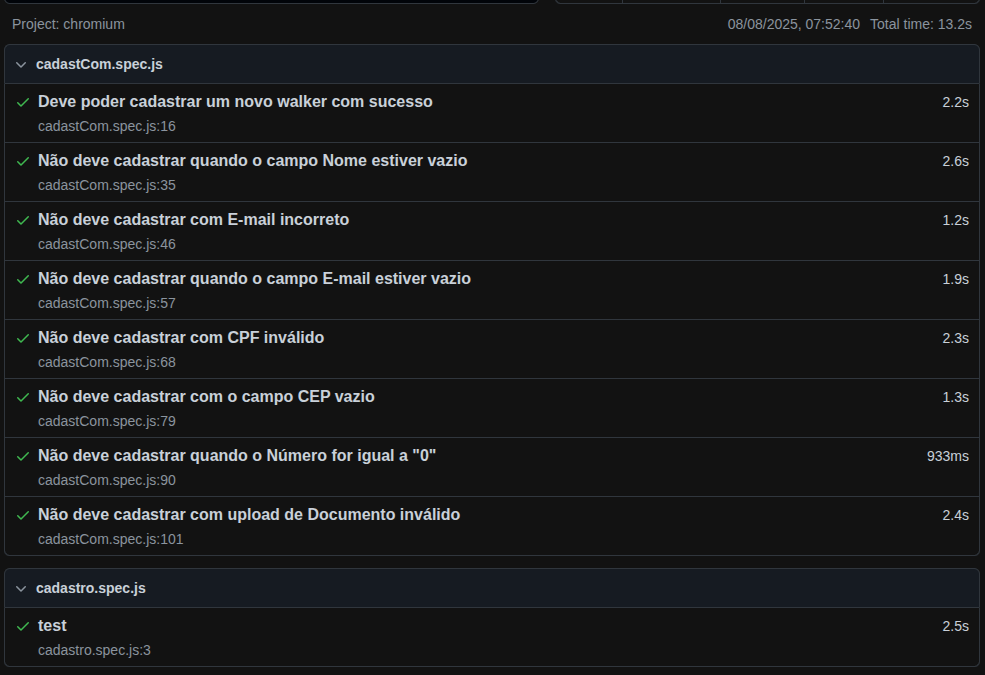
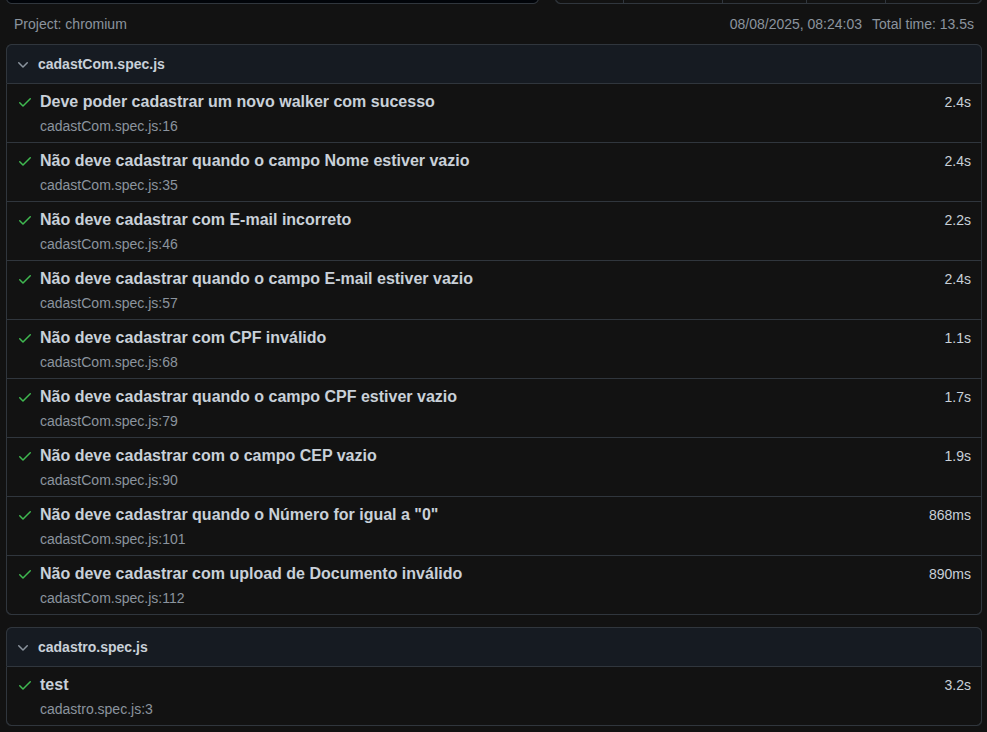
Inserindo novo cenário onde o campo CPF está vazio

diff --git a/e2e/cadastCom.spec.js b/e2e/cadastCom.spec.js
@@ -75,6 +75,17 @@ test('Não deve cadastrar com CPF inválido', async ({ page }) => {
    await expect(signup.alertError()).toContainText('CPF inválido')
 })
 
+// Erro ao deixar o campo CPF vazio
+test('Não deve cadastrar quando o campo CPF estiver vazio', async ({ page }) => {
+   const signup = signupPage(page)
+   
+   await signup.open()
+   await signup.submit({...walker, cpf: ''}) // Usando os '...' estamos espalhamento de objetos dentro das {}
+
+   // Validando que exibiu a mensagem de erro abaixo do campo CPF
+   await expect(signup.alertError()).toContainText('Informe o seu CPF')
+})
+
 // Erro ao deixar o campo CEP vazio
 test('Não deve cadastrar com o campo CEP vazio', async ({ page }) => {
    const signup = signupPage(page)
